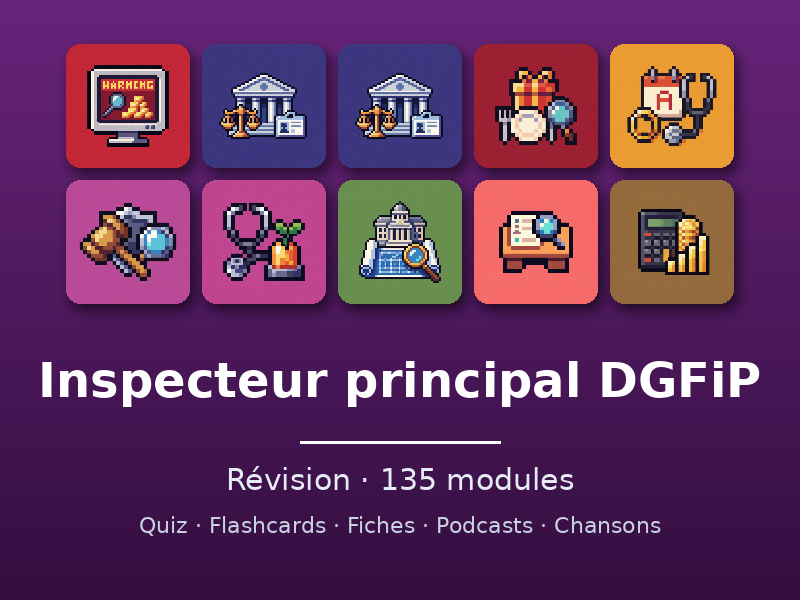
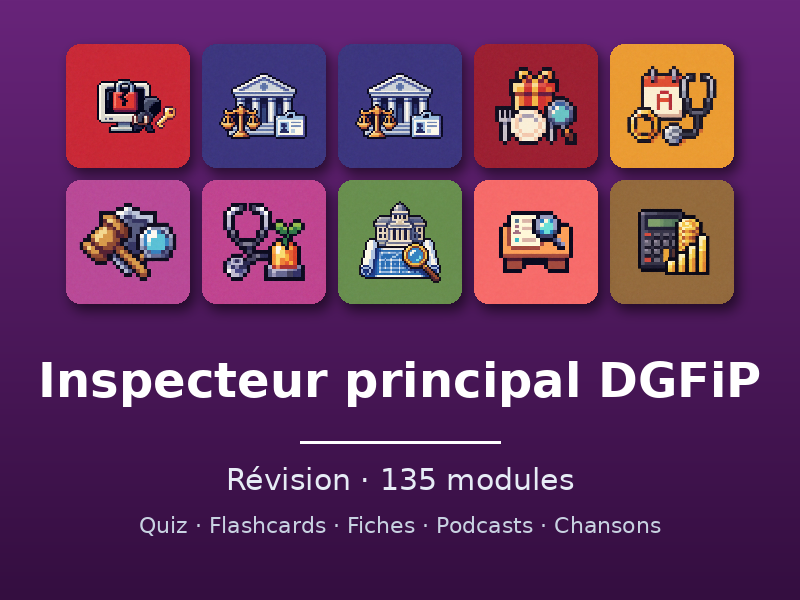
Inventaire des médias et vignette du jeu mis à jour

Changed region(s): [[0.0938, 0.09, 0.2188, 0.27]]

diff --git a/INVENTAIRE.md b/INVENTAIRE.md
@@ -1,6 +1,6 @@
 # Inventaire des modules et des médias — concours-fp-rh
 
-Généré le 30/09/2026 à 00:21 par `scripts/inventaire_medias.py` (135 modules). ✅ présent, ❌ absent ; pour QCM, flashcards et TP, nombre d'éléments (0 = absent).
+Généré le 30/09/2026 à 07:20 par `scripts/inventaire_medias.py` (135 modules). ✅ présent, ❌ absent ; pour QCM, flashcards et TP, nombre d'éléments (0 = absent).
 
 ## Synthèse
 
